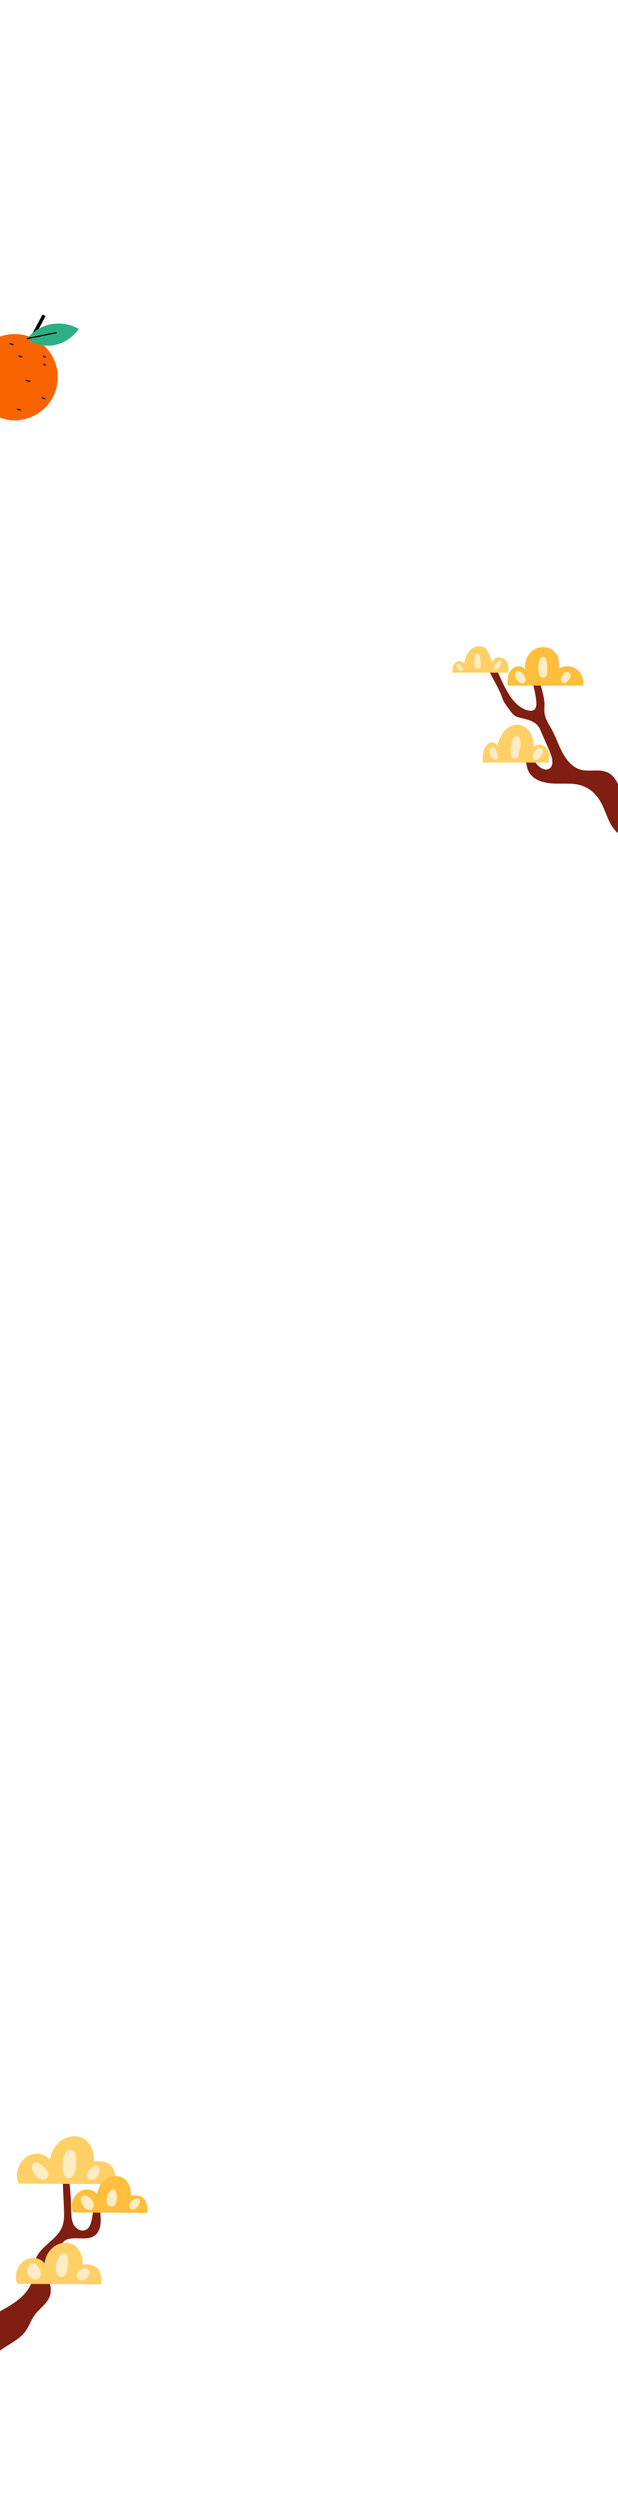
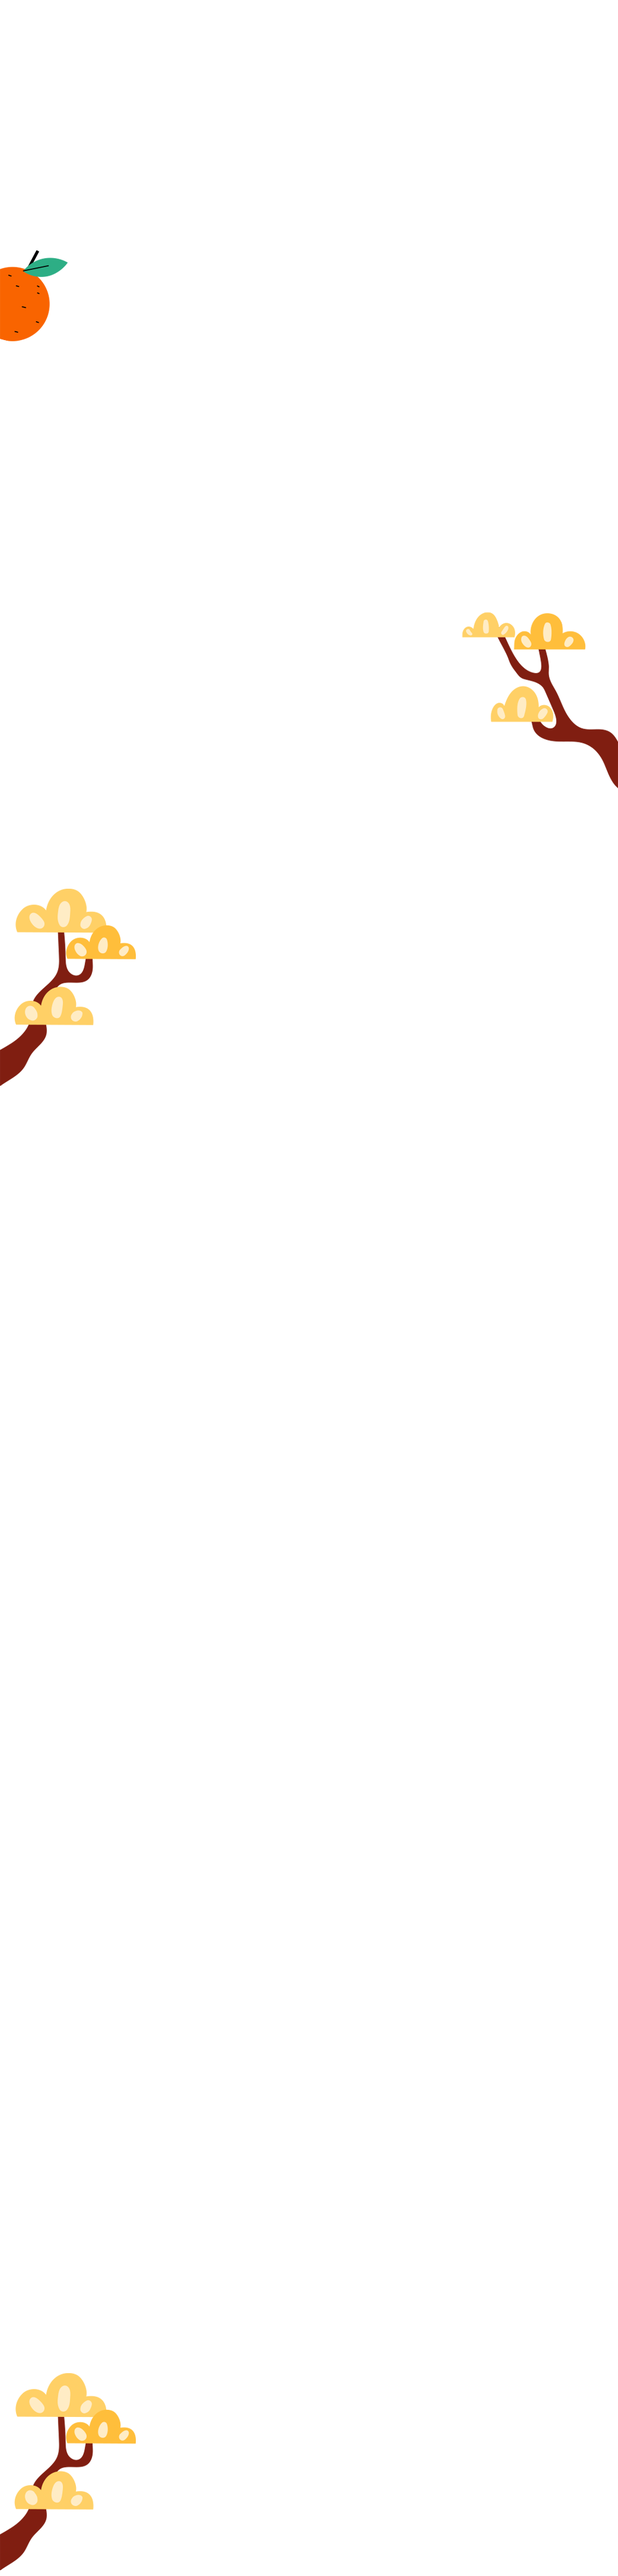
33

diff --git a/2023iPM01/assets/css/main.css b/2023iPM01/assets/css/main.css
@@ -36,7 +36,7 @@ background-position: center top,center bottom,center top; background-repeat: no-
 .dis_item_all{width: 100%; height: 0; padding-bottom: 92.538%; background: url("../images/dis_bg.png") center top no-repeat; background-size: 100% auto; position: relative;}
 .dis_item_all .dis_tit{width: 60%; height: 0; padding-bottom: 15%; position: absolute; left: 20%; top: -7%;}
 .dis_item_all .dis_tit img{display: inline-block; width: 100%;}
-.dis_item_all .dis_cont{width: 90%; margin: 0 auto; padding: 12% 0;}
+.dis_item_all .dis_cont{width: 90%; margin: 0 auto; padding-top: 12%;}
 .dis_item_all .dis_cont .dis_txt{font-size: 18px; line-height: 1.6; margin: 10% auto 5%;}
 .dis_item_all .dis_cont .hrline{width: 70%; margin: 0 auto; border-top: 1px solid #333333; height: 1px;}
 .dis_item_all .dis_cont .dis_num{width: 260px; margin: 6% auto;}
@@ -138,6 +138,7 @@ background-position: center top,center bottom,center top; background-repeat: no-
 .content_container{background-image: url("../images/bg_deco-m.png"),url("../images/bg-m_02.png"); background-position: center top,center top; background-repeat: no-repeat,repeat; background-size: 100% auto,100% auto;}
 .content_container::after{content: ''; display: block; width: 100%; height: 0; padding-bottom: 17.708333%; background: url("../images/bg-m_03.png") center bottom no-repeat; background-size: 100% auto;}
 /* event */
+.event{width: 88%;}
 .discount{width: 92%; margin: 4% auto; flex-direction: column; align-items: center;}
 .discount-item{width: 70%; margin: 4% 0;}
 .discount-item2{margin-top: 10%;}
@@ -151,43 +152,37 @@ background-position: center top,center bottom,center top; background-repeat: no-
 /* notice */
 .notice{width: 92%; padding: 5% 3% 3%;}
 }
-@media screen and (max-width:768px) {
+@media screen and (max-width:767px) {
 .main{padding-top: 58px;}
 /* kv */
 .kv{width: 100%; height: 0; padding-bottom: 125%; margin: 0 auto; background: url("../images/kv_bg-m.png") center top no-repeat; background-size: 100% auto;}
 .kv .kv_tit{width: 77.9%; padding-top: 17%;}
 .kv .firecracker{display: none;}
-.kv .Lrabbit{width: 54%; top: 52%; left: 2%;}
+.kv .Lrabbit{width: 54%; top: 53.5%; left: 2%;}
 .kv .coins{width: 24%; top: 85%; left: 31%;}
 .kv .Rrabbit{width: 55%; top: 56%; left: 41%;}
-.kv_logo{width: 76%; left: 12%; bottom: -15%;}
+.kv_logo{width: 74%; left: 13%; bottom: -15%;}
 /* content */
 .content{padding-top: 25%}
 /* event */
-.event{padding: 0 0 3%;}
+.event{width: 85%; padding: 0 0 3%;}
 .event .event_part{padding: 8% 0;}
 .event .event_tit{width: 70%; margin: 0 auto 5%;}
-.event .event_date{font-size: 22px; font-weight: bold;}
-.event .event_txt{font-size: 20px; text-align: justify;}
-/* .event b{font-weight: bold;}
-.discount{width: 76%; margin: 4% auto; display: flex; flex-direction: row; flex-wrap: nowrap; justify-content: center; align-items: flex-start;}
-.discount-item{width: 49%; margin: 0 auto; position: relative;}
-.dis_item_all{width: 100%; height: 0; padding-bottom: 92.538%; background: url("../images/dis_bg.png") center top no-repeat; background-size: 100% auto; position: relative;}
-.dis_item_all .dis_tit{width: 60%; height: 0; padding-bottom: 15%; position: absolute; left: 20%; top: -7%;}
-.dis_item_all .dis_tit img{display: inline-block; width: 100%;}
-.dis_item_all .dis_cont{width: 90%; margin: 0 auto; padding: 12% 0;}
-.dis_item_all .dis_cont .dis_txt{font-size: 18px; line-height: 1.6; margin: 10% auto 5%;}
-.dis_item_all .dis_cont .hrline{width: 70%; margin: 0 auto; border-top: 1px solid #333333; height: 1px;}
-.dis_item_all .dis_cont .dis_num{width: 260px; margin: 6% auto;}
-.dis_item_all .dis_cont p{font-size: 14px; margin-top: 3%;} */
+.event .event_date{font-size: 26px;}
+.event .event_txt{font-size: 24px; text-align: justify;}
+.discount-item{width: 100%;}
+.dis_item_all .dis_cont .dis_txt{font-size: 22px;}
+.dis_item_all .dis_cont p{font-size: 18px;}
+.light_blue{font-size: 20px;}
+.dis_pic1{width: 50%; top: 47%; left: -19%;}
+.dis_pic2{width: 50%; top: 35%; right: -24%;}
 /* action */
 .action{display:block;}
 .action-item{max-width:300px;margin:auto;}
 .action-item+.action-item{margin-top:30px;margin-left:auto;}
-
 /* notice */
 .notice_all ul{font-size:14px;padding-left:28px}
-.notice_tit{font-size: 18px;}
+.notice_tit{width: 70%; margin: 0 auto 5%;}
 #contTab:checked ~ #cont{
     max-height: 48vw;
     overflow: hidden;
@@ -199,6 +194,20 @@ background-position: center top,center bottom,center top; background-repeat: no-
     line-height: 8vw;
     font-size: 1em;
 }
+}
+@media screen and (max-width:600px) {
+/* event */
+.event .event_date{font-size: 20px;}
+.event .event_txt{font-size: 18px;}
+.discount-item{width: 160%;}
+.dis_item_all .dis_tit{width: 50%; left: 25%; top: 11%;}
+.dis_item_all .dis_cont{padding-top: 19%;}
+.dis_item_all .dis_cont .dis_txt{font-size: 4.5vw; margin: 10% auto 2%;}
+.dis_item_all .dis_cont .dis_num{width: 55%; margin: 4% auto;}
+.dis_item_all .dis_cont p{font-size: 4vw;}
+.light_blue{font-size: 4vw; margin-top: 2%;}
+.dis_pic1{width: 30%; top: 64%; left: 6%;}
+.dis_pic2{width: 30%; top: 57%; right: 4%;}
 }
 @media screen and (max-width:520px) {
 /* event */
